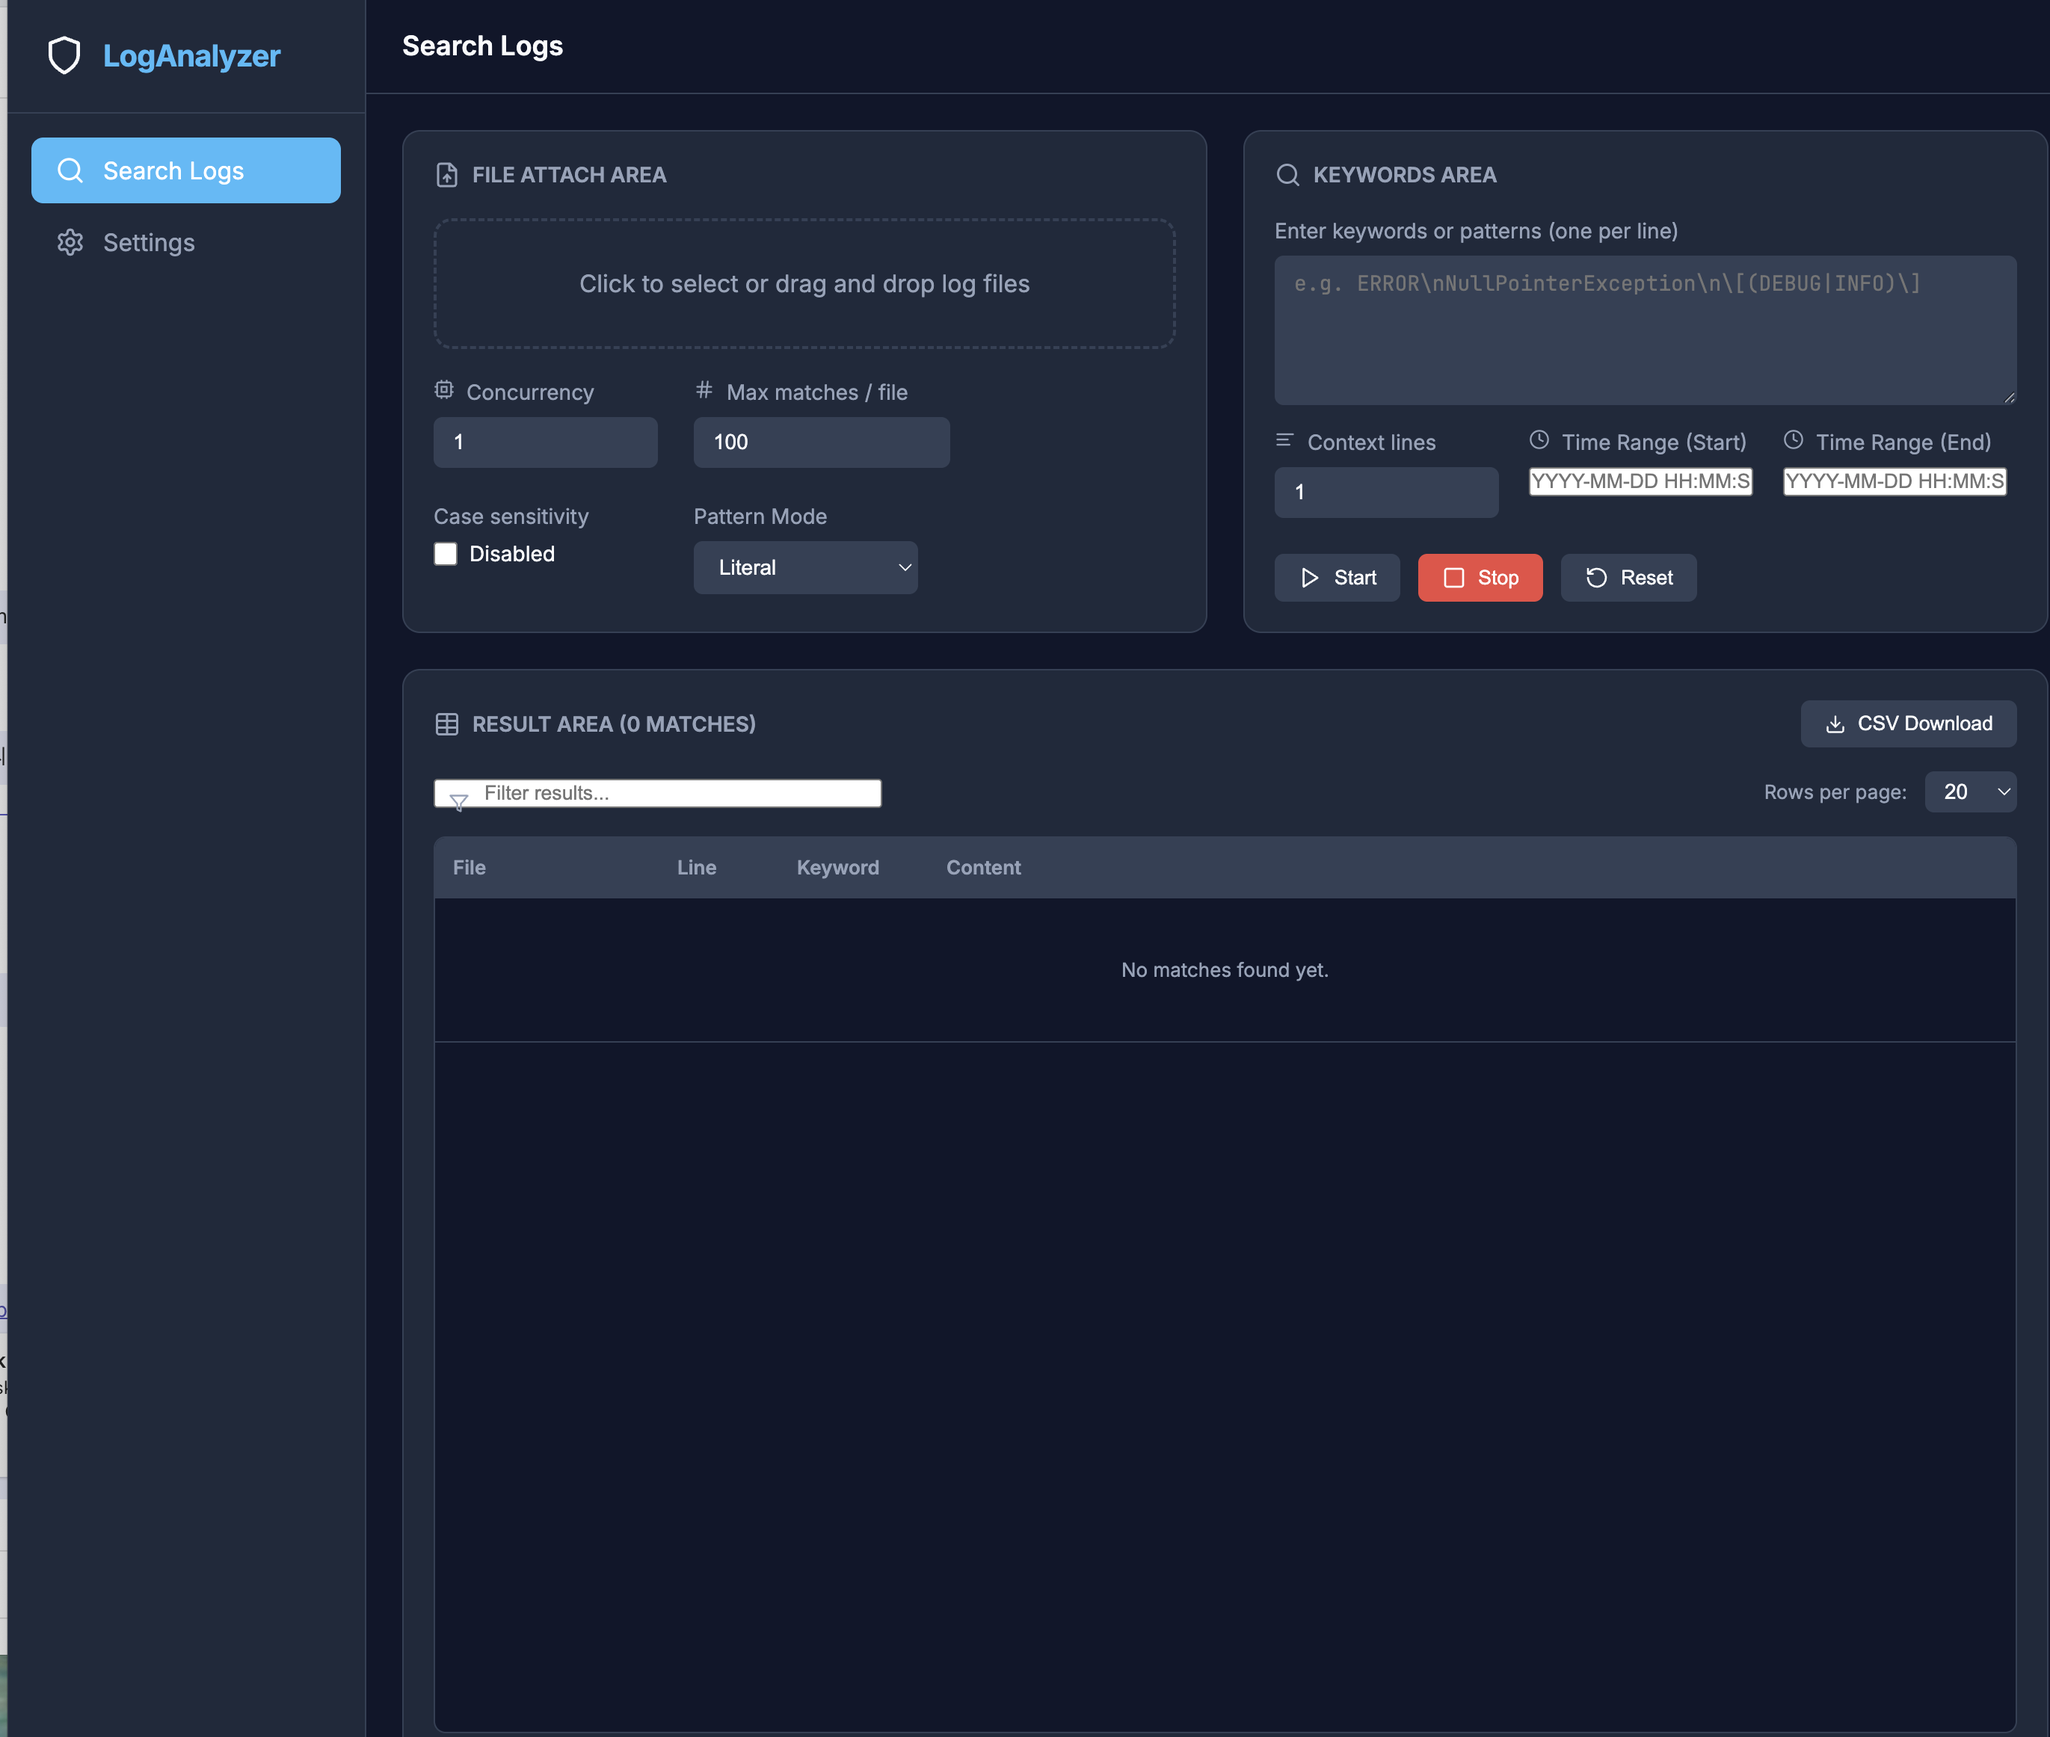
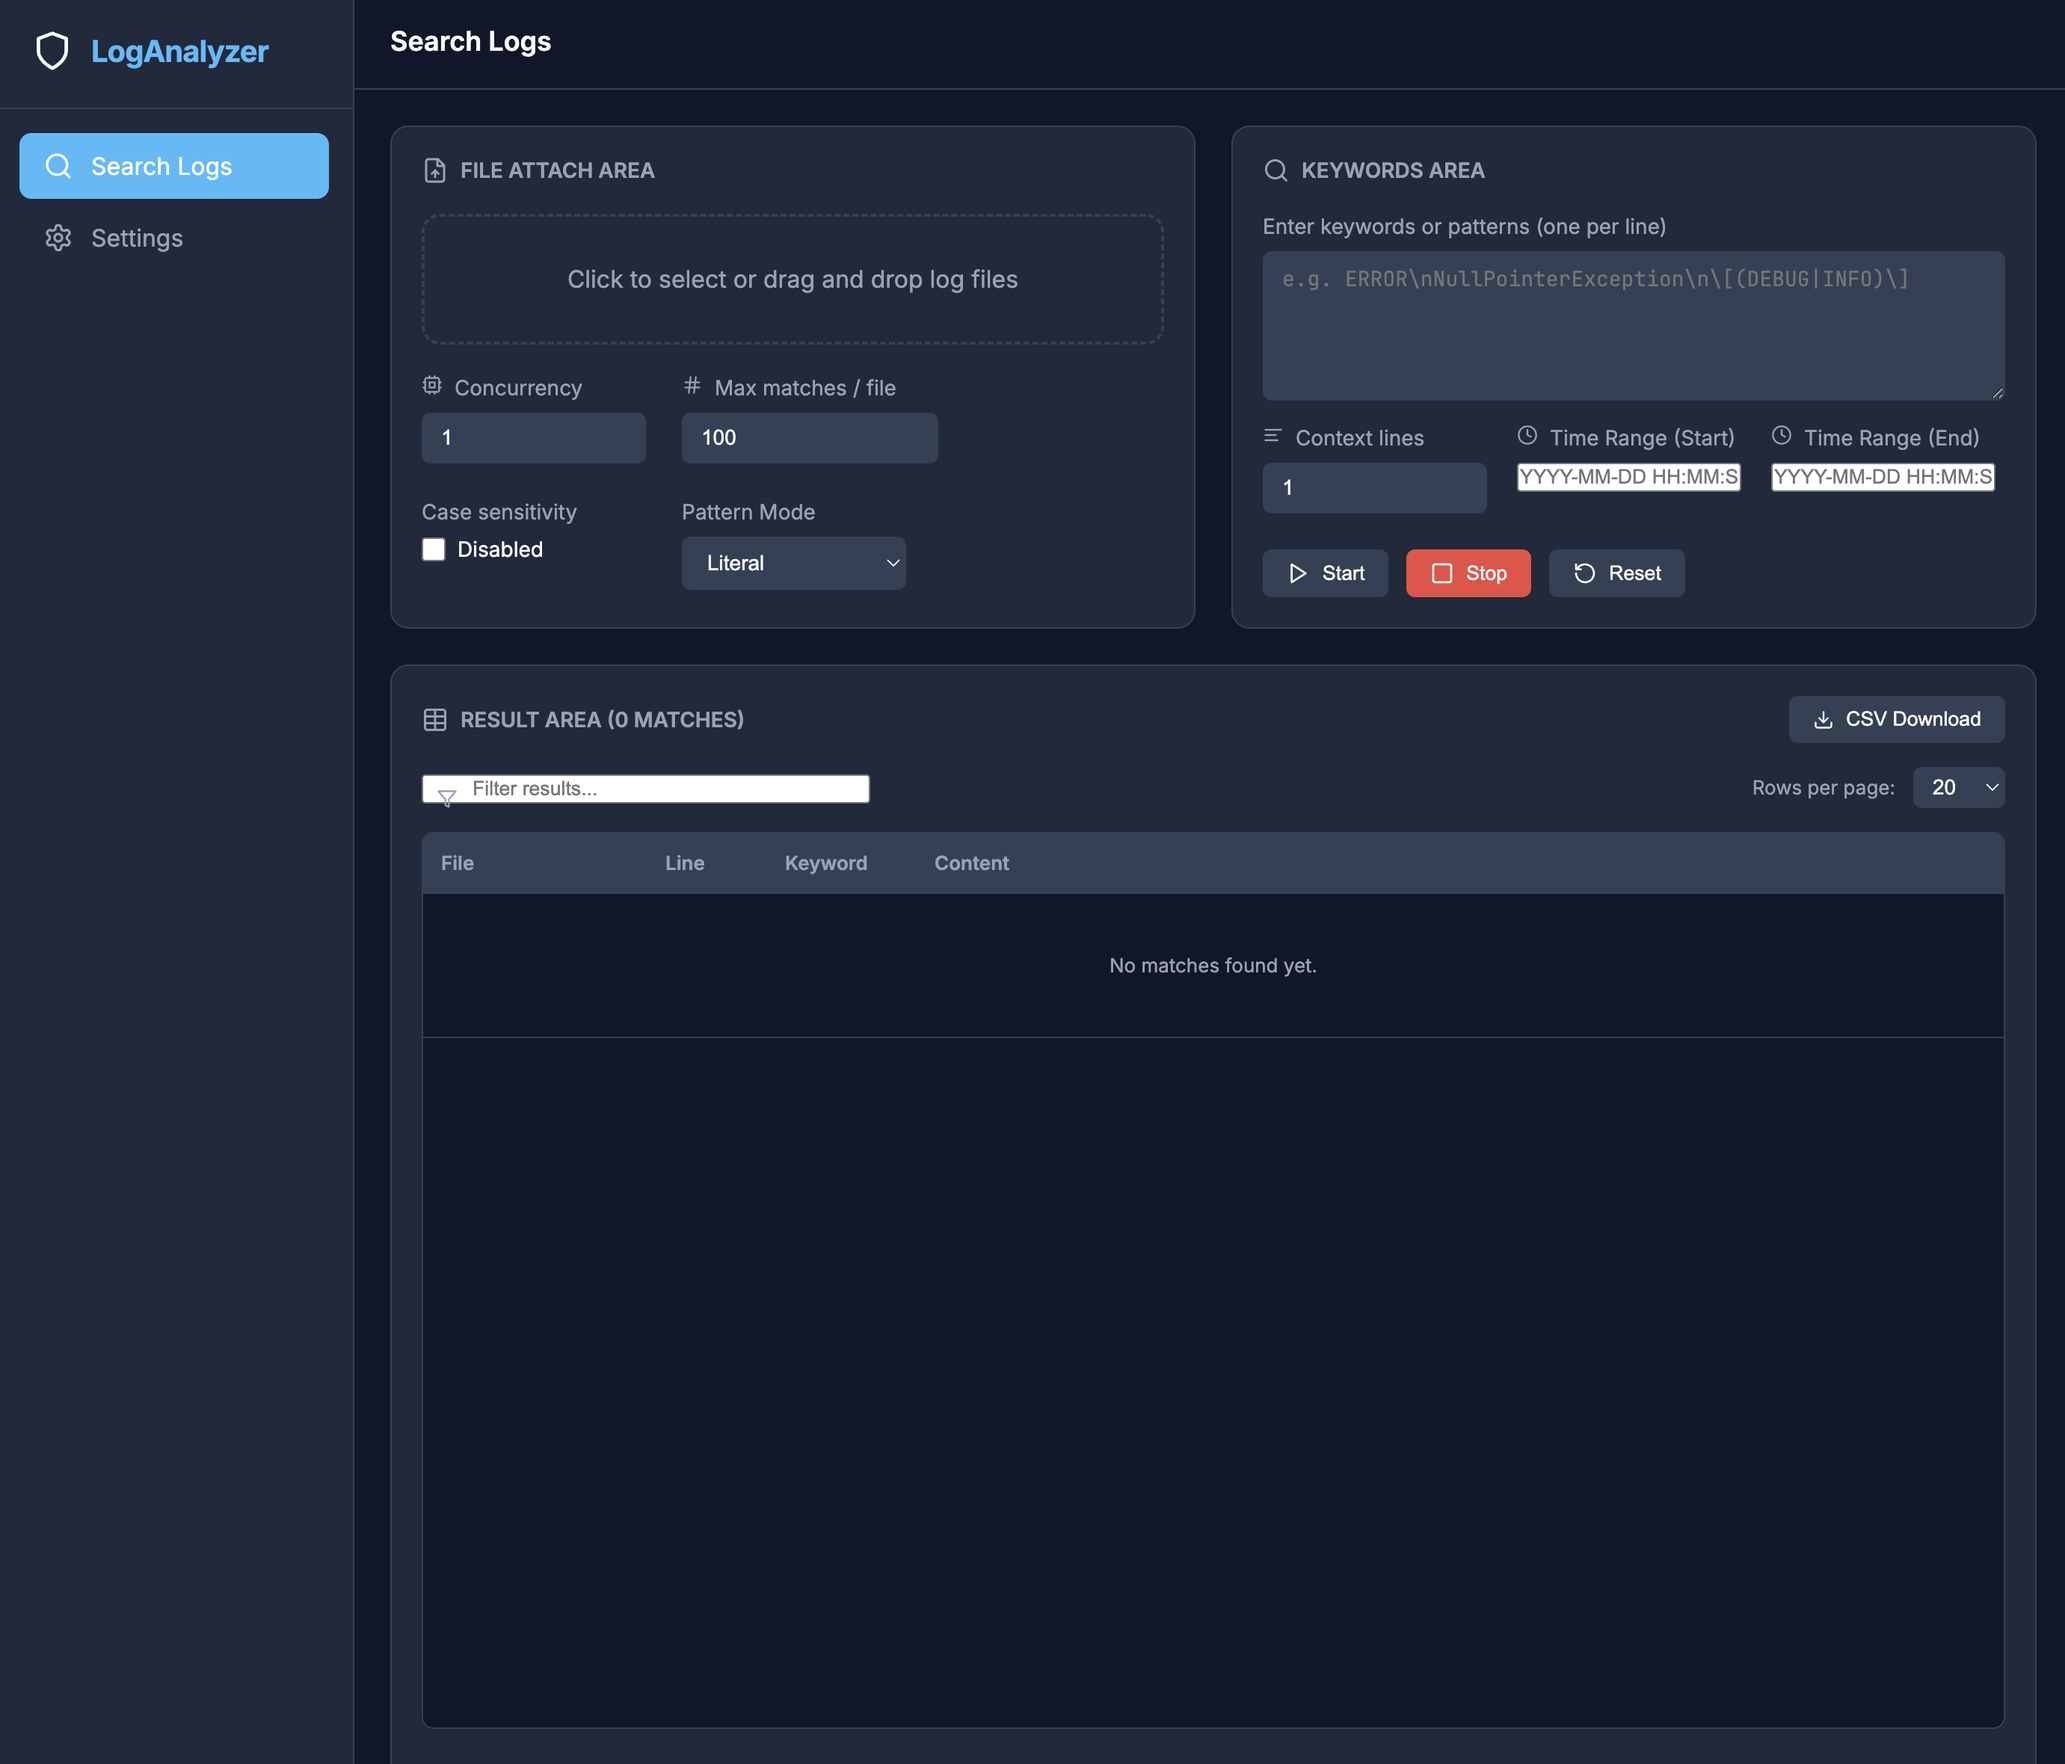
docs: update UI screenshots and technical specification artifacts

diff --git a/production_artifacts/Technical_Specification.md b/production_artifacts/Technical_Specification.md
@@ -141,8 +141,7 @@ App
 │   └── NavItem: "Settings"
 ├── SearchLogsPage
 │   ├── Header
-│   │   ├── PageTitle ("Search Logs")
-│   │   └── ActionButtons (Start / Stop / Reset)
+│   │   └── PageTitle ("Search Logs")
 │   ├── FileAttachArea
 │   │   ├── FileInput (multi-file, drag-and-drop)
 │   │   ├── ConcurrencySlider (1–8)
@@ -152,7 +151,8 @@ App
 │   ├── KeywordsArea
 │   │   ├── KeywordsTextarea
 │   │   ├── ContextLinesInput
-│   │   └── TimeRangeInputs (Start / End Time)
+│   │   ├── TimeRangeInputs (Start / End Time)
+│   │   └── ActionButtons (Start / Stop / Reset)
 │   ├── ProgressArea
 │   │   └── FileProgressBar[] (per file: name, bar, bytes/lines/matches)
 │   └── ResultArea
